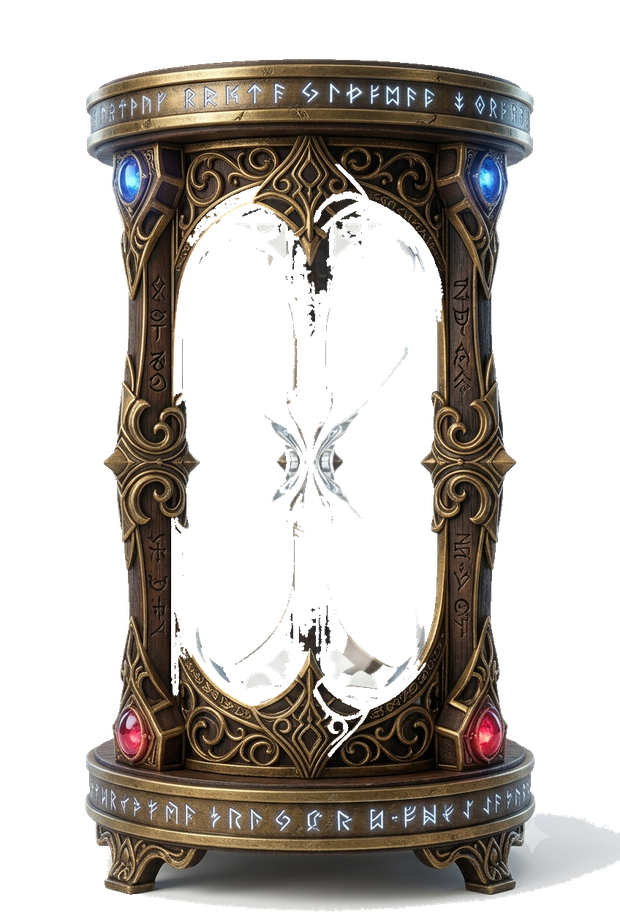
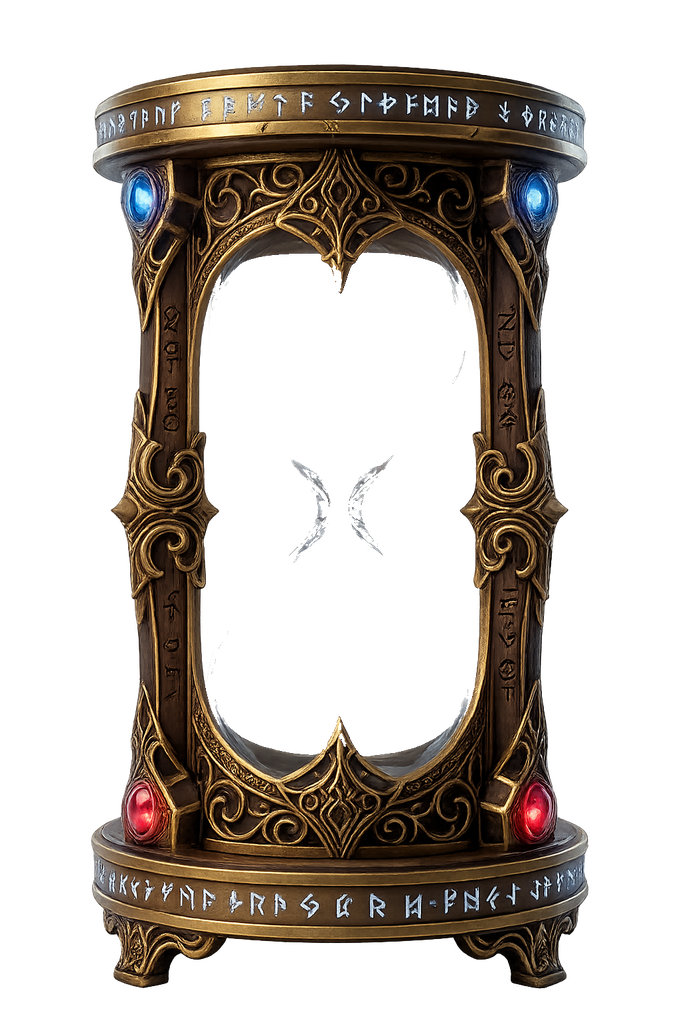
Add files via upload

Changed region(s): [[0.1226, 0.0606, 1.0, 1.0], [0.429, 0.4545, 0.5823, 0.5758], [0.4597, 0.3636, 0.4903, 0.4242]]

diff --git a/player.html b/player.html
@@ -12,26 +12,22 @@
 
     <div class="stage">
       <div class="hg-frame" id="hgFrame">
-        <svg class="sand" id="sand" viewBox="0 0 848 1264" preserveAspectRatio="xMidYMid meet" aria-hidden="true">
+        <svg class="sand" id="sand" viewBox="0 0 1024 1536" preserveAspectRatio="xMidYMid meet" aria-hidden="true">
           <defs>
-            <linearGradient id="amber" x1="0" y1="0" x2="0" y2="1">
+            <linearGradient id="amber" gradientUnits="userSpaceOnUse" x1="0" y1="382" x2="0" y2="1135">
               <stop offset="0%"  stop-color="#ffe6a6"/>
               <stop offset="45%" stop-color="#f2b74e"/>
-              <stop offset="100%" stop-color="#c07d24"/>
-            </linearGradient>
-            <linearGradient id="amberBot" x1="0" y1="0" x2="0" y2="1">
-              <stop offset="0%"  stop-color="#f7c667"/>
-              <stop offset="100%" stop-color="#b16e1e"/>
+              <stop offset="100%" stop-color="#bd7822"/>
             </linearGradient>
             <filter id="sglow" x="-40%" y="-40%" width="180%" height="180%">
-              <feGaussianBlur stdDeviation="5" result="b"/>
+              <feGaussianBlur stdDeviation="6" result="b"/>
               <feMerge><feMergeNode in="b"/><feMergeNode in="SourceGraphic"/></feMerge>
             </filter>
           </defs>
           <g id="sandG" filter="url(#sglow)">
-            <rect id="sandTop" x="240" y="285" width="356" height="0" fill="url(#amber)"/>
-            <rect id="sandBot" x="240" y="955" width="356" height="0" fill="url(#amberBot)"/>
-            <rect id="stream" x="414" y="632" width="6" height="0" fill="#ffd77a"/>
+            <path id="sandTop" fill="url(#amber)" d=""/>
+            <path id="sandBot" fill="url(#amber)" d=""/>
+            <rect id="stream" x="509" y="769" width="6" height="0" fill="#ffd77a"/>
             <g id="particles"></g>
           </g>
         </svg>
@@ -45,8 +41,8 @@
 
   <script src="/app.js"></script>
   <script>
-    // Géométrie du verre (coordonnées viewBox 848x1264, mesurées sur le cadre)
-    var GT = 285, NECK = 632, GB = 955, SX = 240, SW = 356, CX = 417;
+    // Géométrie du verre (viewBox 1024x1536, mesurée sur le cadre FINAL)
+    var GT = 382, NECK = 769, GB = 1135, SX = 305, SW = 412, CX = 512;
     var sandTop = document.getElementById('sandTop');
     var sandBot = document.getElementById('sandBot');
     var stream  = document.getElementById('stream');
@@ -60,30 +56,46 @@
     var particles = [];
     var lastTs = 0;
 
+    // Sable en forme d'ampoule : surface concave (haut) / monticule (bas)
+    function sandPath(surfY, baseY, curve, mound){
+      var x0 = SX, x1 = SX + SW;
+      var ctrlY = mound ? (surfY - curve) : (surfY + curve);
+      return 'M'+x0+','+baseY+' L'+x0+','+surfY+' Q'+CX+','+ctrlY+' '+x1+','+surfY+' L'+x1+','+baseY+' Z';
+    }
+
+    // Bouton son : 1er clic = activer, ensuite bascule activé / coupé
+    var soundReady = false;
     soundBtn.addEventListener('click', function () {
-      unlockAudio(); playAlert('reminder'); soundBtn.classList.add('hidden');
+      if (!soundReady) { unlockAudio(); soundReady = true; soundMuted = false; playAlert('reminder'); }
+      else { soundMuted = !soundMuted; if (!soundMuted) { unlockAudio(); playAlert('reminder'); } }
+      updateSoundBtn();
     });
+    function updateSoundBtn(){
+      if (!soundReady) { soundBtn.textContent = '🔔 Activer le son'; soundBtn.classList.remove('off'); }
+      else if (soundMuted) { soundBtn.textContent = '🔕 Son coupé'; soundBtn.classList.add('off'); }
+      else { soundBtn.textContent = '🔊 Son activé'; soundBtn.classList.remove('off'); }
+    }
+
     function doFlash(){ flash.classList.remove('go'); void flash.offsetWidth; flash.classList.add('go'); }
 
     function spawnParticle(yFill){
       var c = document.createElementNS(NS,'circle');
-      c.setAttribute('r',(1.6+Math.random()*1.6).toFixed(2));
+      c.setAttribute('r',(2.0+Math.random()*2.0).toFixed(2));
       c.setAttribute('fill','#ffd77a');
       pg.appendChild(c);
-      particles.push({el:c, x:CX+(Math.random()*8-4), y:NECK, v:260+Math.random()*120, tgt:yFill});
+      particles.push({el:c, x:CX+(Math.random()*10-5), y:NECK, v:320+Math.random()*160, tgt:yFill});
     }
 
     function renderSand(rem, s){
       var f = Math.max(0, Math.min(1, 1 - rem / s.totalMs));
       var running = s.running;
       var ySurf = GT + f*(NECK-GT);
-      sandTop.setAttribute('y', ySurf);
-      sandTop.setAttribute('height', Math.max(0, NECK-ySurf));
       var yFill = GB - f*(GB-NECK);
-      sandBot.setAttribute('y', yFill);
-      sandBot.setAttribute('height', Math.max(0, GB-yFill));
+      var dipT   = Math.min(52, (NECK-ySurf)*0.55);
+      var moundB = Math.min(64, (GB-yFill)*0.55);
+      sandTop.setAttribute('d', sandPath(ySurf, NECK, dipT, false));
+      sandBot.setAttribute('d', sandPath(yFill, GB, moundB, true));
 
-      // filet de sable + particules
       var flowing = running && f > 0.001 && f < 0.999;
       if (flowing){
         stream.setAttribute('y', NECK);
@@ -100,7 +112,6 @@
         p.el.setAttribute('cx',p.x.toFixed(1)); p.el.setAttribute('cy',p.y.toFixed(1));
       }
 
-      // lueur rouge dans les 5 dernières minutes, pulsation dans la dernière
       sandG.classList.toggle('danger', rem <= 5*60*1000);
       sandG.classList.toggle('critical', rem <= 60*1000 && rem > 0);
     }

diff --git a/app.js b/app.js
@@ -2,30 +2,54 @@
 
 /* ---------- Audio (WebAudio, aucun fichier requis) ---------- */
 let audioCtx = null;
+var soundMuted = false;      // basculé par l'interface joueur
+let masterGain = null;
 function unlockAudio() {
   if (!audioCtx) {
-    try { audioCtx = new (window.AudioContext || window.webkitAudioContext)(); } catch (e) { return; }
+    try {
+      audioCtx = new (window.AudioContext || window.webkitAudioContext)();
+      masterGain = audioCtx.createGain();
+      masterGain.gain.value = 1.0;
+      masterGain.connect(audioCtx.destination);
+    } catch (e) { return; }
   }
   if (audioCtx.state === 'suspended') audioCtx.resume();
 }
+// une "note" = fondamentale + octave inférieure pour un son riche et fort
 function tone(freq, start, dur, vol, type) {
   if (!audioCtx) return;
   const t = audioCtx.currentTime + start;
-  const o = audioCtx.createOscillator();
+  const peak = vol || 0.7;
   const g = audioCtx.createGain();
-  o.type = type || 'sine';
-  o.frequency.value = freq;
-  o.connect(g); g.connect(audioCtx.destination);
+  g.connect(masterGain || audioCtx.destination);
   g.gain.setValueAtTime(0.0001, t);
-  g.gain.exponentialRampToValueAtTime(vol || 0.3, t + 0.012);
+  g.gain.exponentialRampToValueAtTime(peak, t + 0.014);
   g.gain.exponentialRampToValueAtTime(0.0001, t + dur);
-  o.start(t); o.stop(t + dur + 0.03);
+  [[freq, type || 'sine', 1], [freq / 2, 'sine', 0.5], [freq * 2, 'triangle', 0.28]].forEach(function (v) {
+    const o = audioCtx.createOscillator();
+    const og = audioCtx.createGain();
+    o.type = v[1]; o.frequency.value = v[0]; og.gain.value = v[2];
+    o.connect(og); og.connect(g);
+    o.start(t); o.stop(t + dur + 0.04);
+  });
 }
 function playAlert(kind) {
+  if (soundMuted) return;
   unlockAudio();
-  if (kind === 'timer') { tone(880, 0, 0.18, 0.3); tone(1175, 0.18, 0.22, 0.3); tone(1568, 0.4, 0.3, 0.28); }
-  else if (kind === 'reminder') { tone(660, 0, 0.16, 0.28); tone(660, 0.22, 0.2, 0.28); }
-  else if (kind === 'end') { tone(523, 0, 0.3, 0.3); tone(392, 0.28, 0.5, 0.3); }
+  const V = 0.75;
+  if (kind === 'timer') {
+    // triade ascendante urgente, jouée deux fois
+    [0, 0.55].forEach(function (o) {
+      tone(988, o, 0.24, V); tone(1319, o + 0.17, 0.24, V); tone(1760, o + 0.34, 0.34, V);
+    });
+  } else if (kind === 'reminder') {
+    // « ding-dong » clair, deux fois
+    [0, 0.62].forEach(function (o) {
+      tone(784, o, 0.30, V, 'triangle'); tone(1047, o + 0.24, 0.40, V, 'triangle');
+    });
+  } else if (kind === 'end') {
+    tone(523, 0, 0.5, V); tone(392, 0.42, 0.7, V); tone(262, 0.9, 1.1, V);
+  }
 }
 
 /* ---------- Formatage ---------- */

diff --git a/style.css b/style.css
@@ -51,8 +51,8 @@ html, body {
 .stage { display: flex; flex-direction: column; align-items: center; gap: 10px; }
 .hg-frame {
   position: relative;
-  height: min(82vh, 660px);
-  aspect-ratio: 848 / 1264;
+  height: min(82vh, 680px);
+  aspect-ratio: 1024 / 1536;
 }
 .hg-frame .sand, .hg-frame .frame-img {
   position: absolute; inset: 0; width: 100%; height: 100%;
@@ -93,6 +93,7 @@ html, body {
   padding: 8px 14px; border-radius: 20px; cursor: pointer; font-size: 13px;
 }
 .sound-btn.hidden { display: none; }
+.sound-btn.off { opacity: 0.6; border-color: var(--line); }
 
 .flash { position: fixed; inset: 0; background: var(--amber); opacity: 0; pointer-events: none; }
 .flash.go { animation: flash .6s ease-out; }